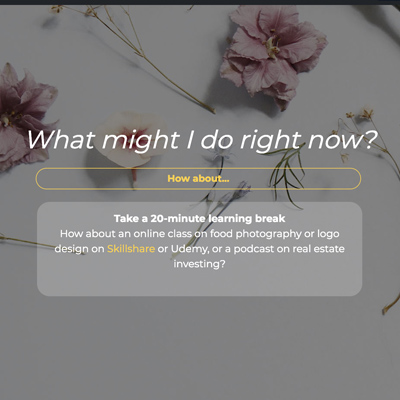
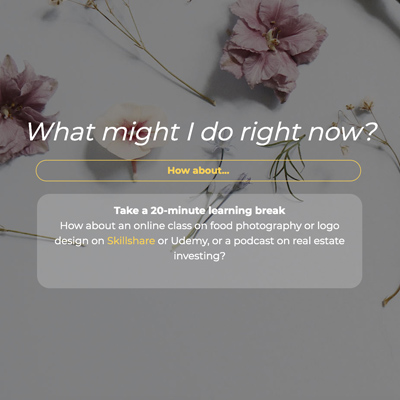
for-you-2

diff --git a/_layouts/for-you.html b/_layouts/for-you.html
@@ -7,12 +7,14 @@ layout: default-sub
 {%- endif -%}
     {% assign ws = '' %}
     <!-- Header -->
-    <header class="longtext">
-      <div class="container">
-        <div class="intro-text">
-          <div class="intro-lead-in">{{ site.data.for-you.intro.lead-in }}</div>
+    <!-- Header -->
+    <header class="longtexttmm">
+
+      <div class="container" style="padding-top:100px;">
+              <div class="intro-text" style="display:block; text-align:center; padding:40px 0;">
+              <div class="intro-lead-in"><b>Resources for You</b><br><small><small>Tools &middot; Guides  &middot; Referrals</small></small>
+                </div></div>
         </div>
-      </div>
     </header>
 
 
@@ -30,8 +32,8 @@ layout: default-sub
           {% assign ws = '' %}
           <div class="col-md-4">
             <h4 class="service-heading">{{ service.heading }}</h4>
-            <a href="{{ service.url }}" target="_blank"><img src="{{ service.img }}" style="width:100%; height: auto;"></a>
-            <p class="text-muted" style="font-size:15px; font-family:'Montserrat', 'Helvetica Neue', Helvetica, Arial, sans-serif;">{{ service.text }}</p>
+            <a href="{{ service.url }}" target="_blank"><img src="{{ service.img }}" style="width:100%; height: auto; padding:20px;"></a>
+            <p class="text-muted" style="font-size:13px; font-family:'Montserrat', 'Helvetica Neue', Helvetica, Arial, sans-serif;">{{ service.text }}</p>
           </div>
           {%- endfor -%}
         {% assign ws = '' %}
